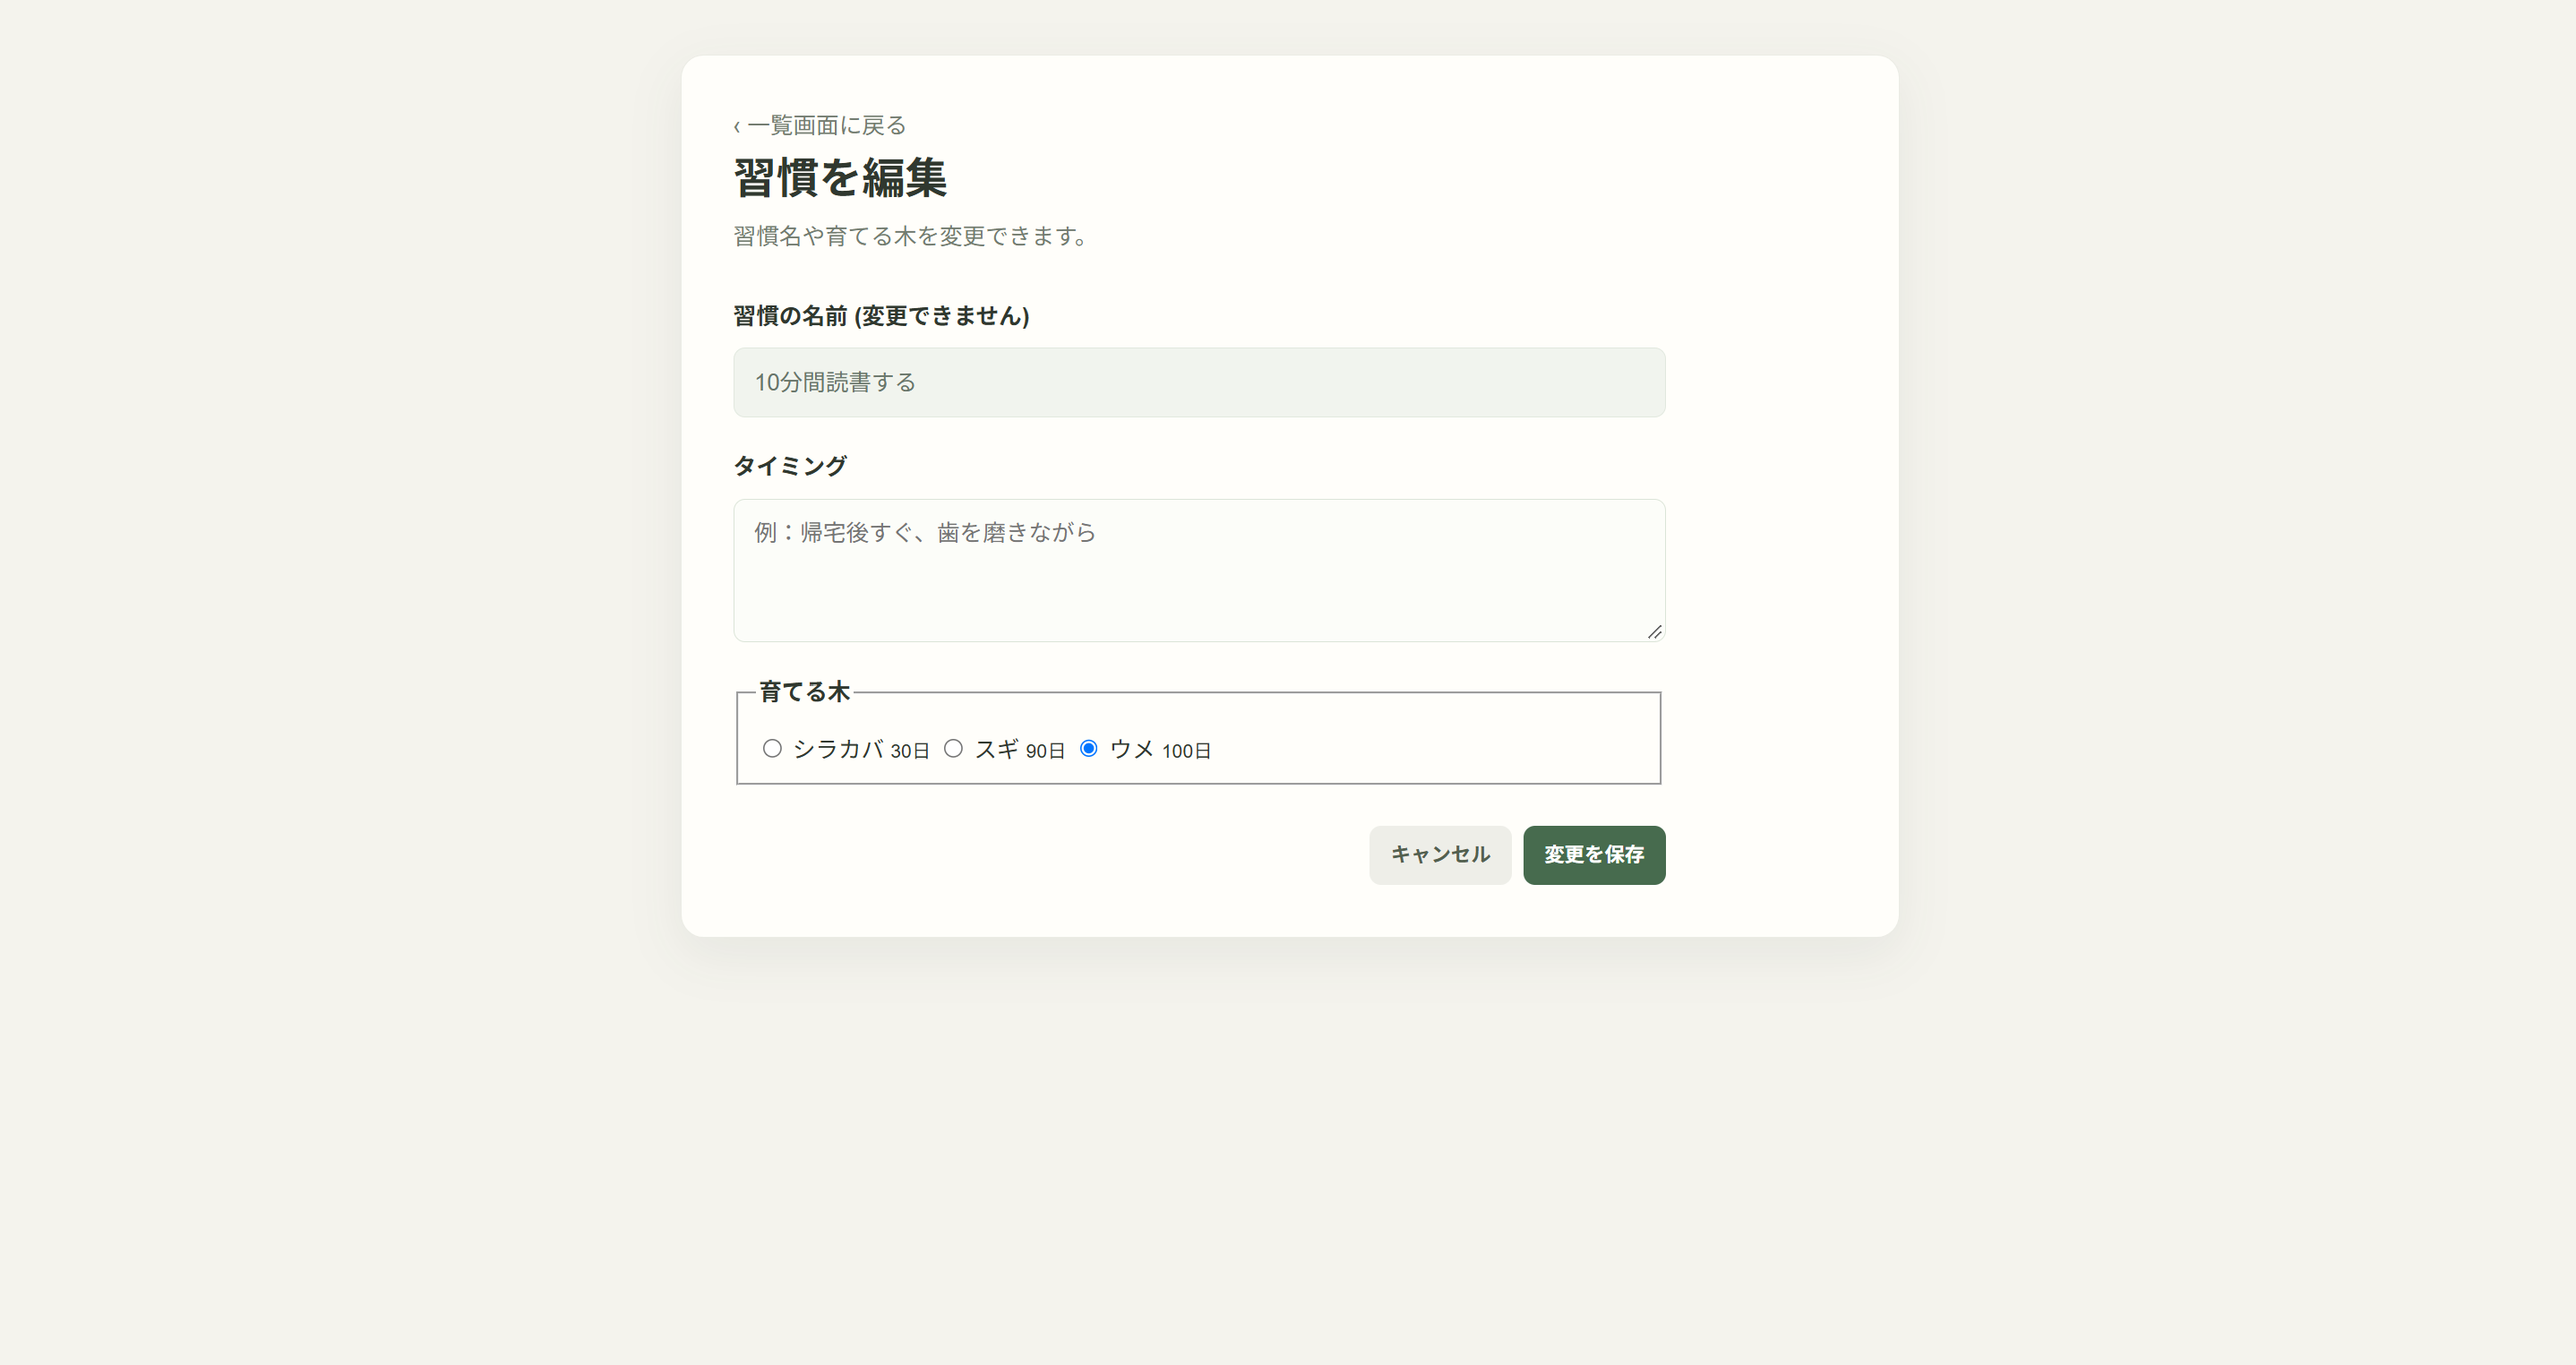
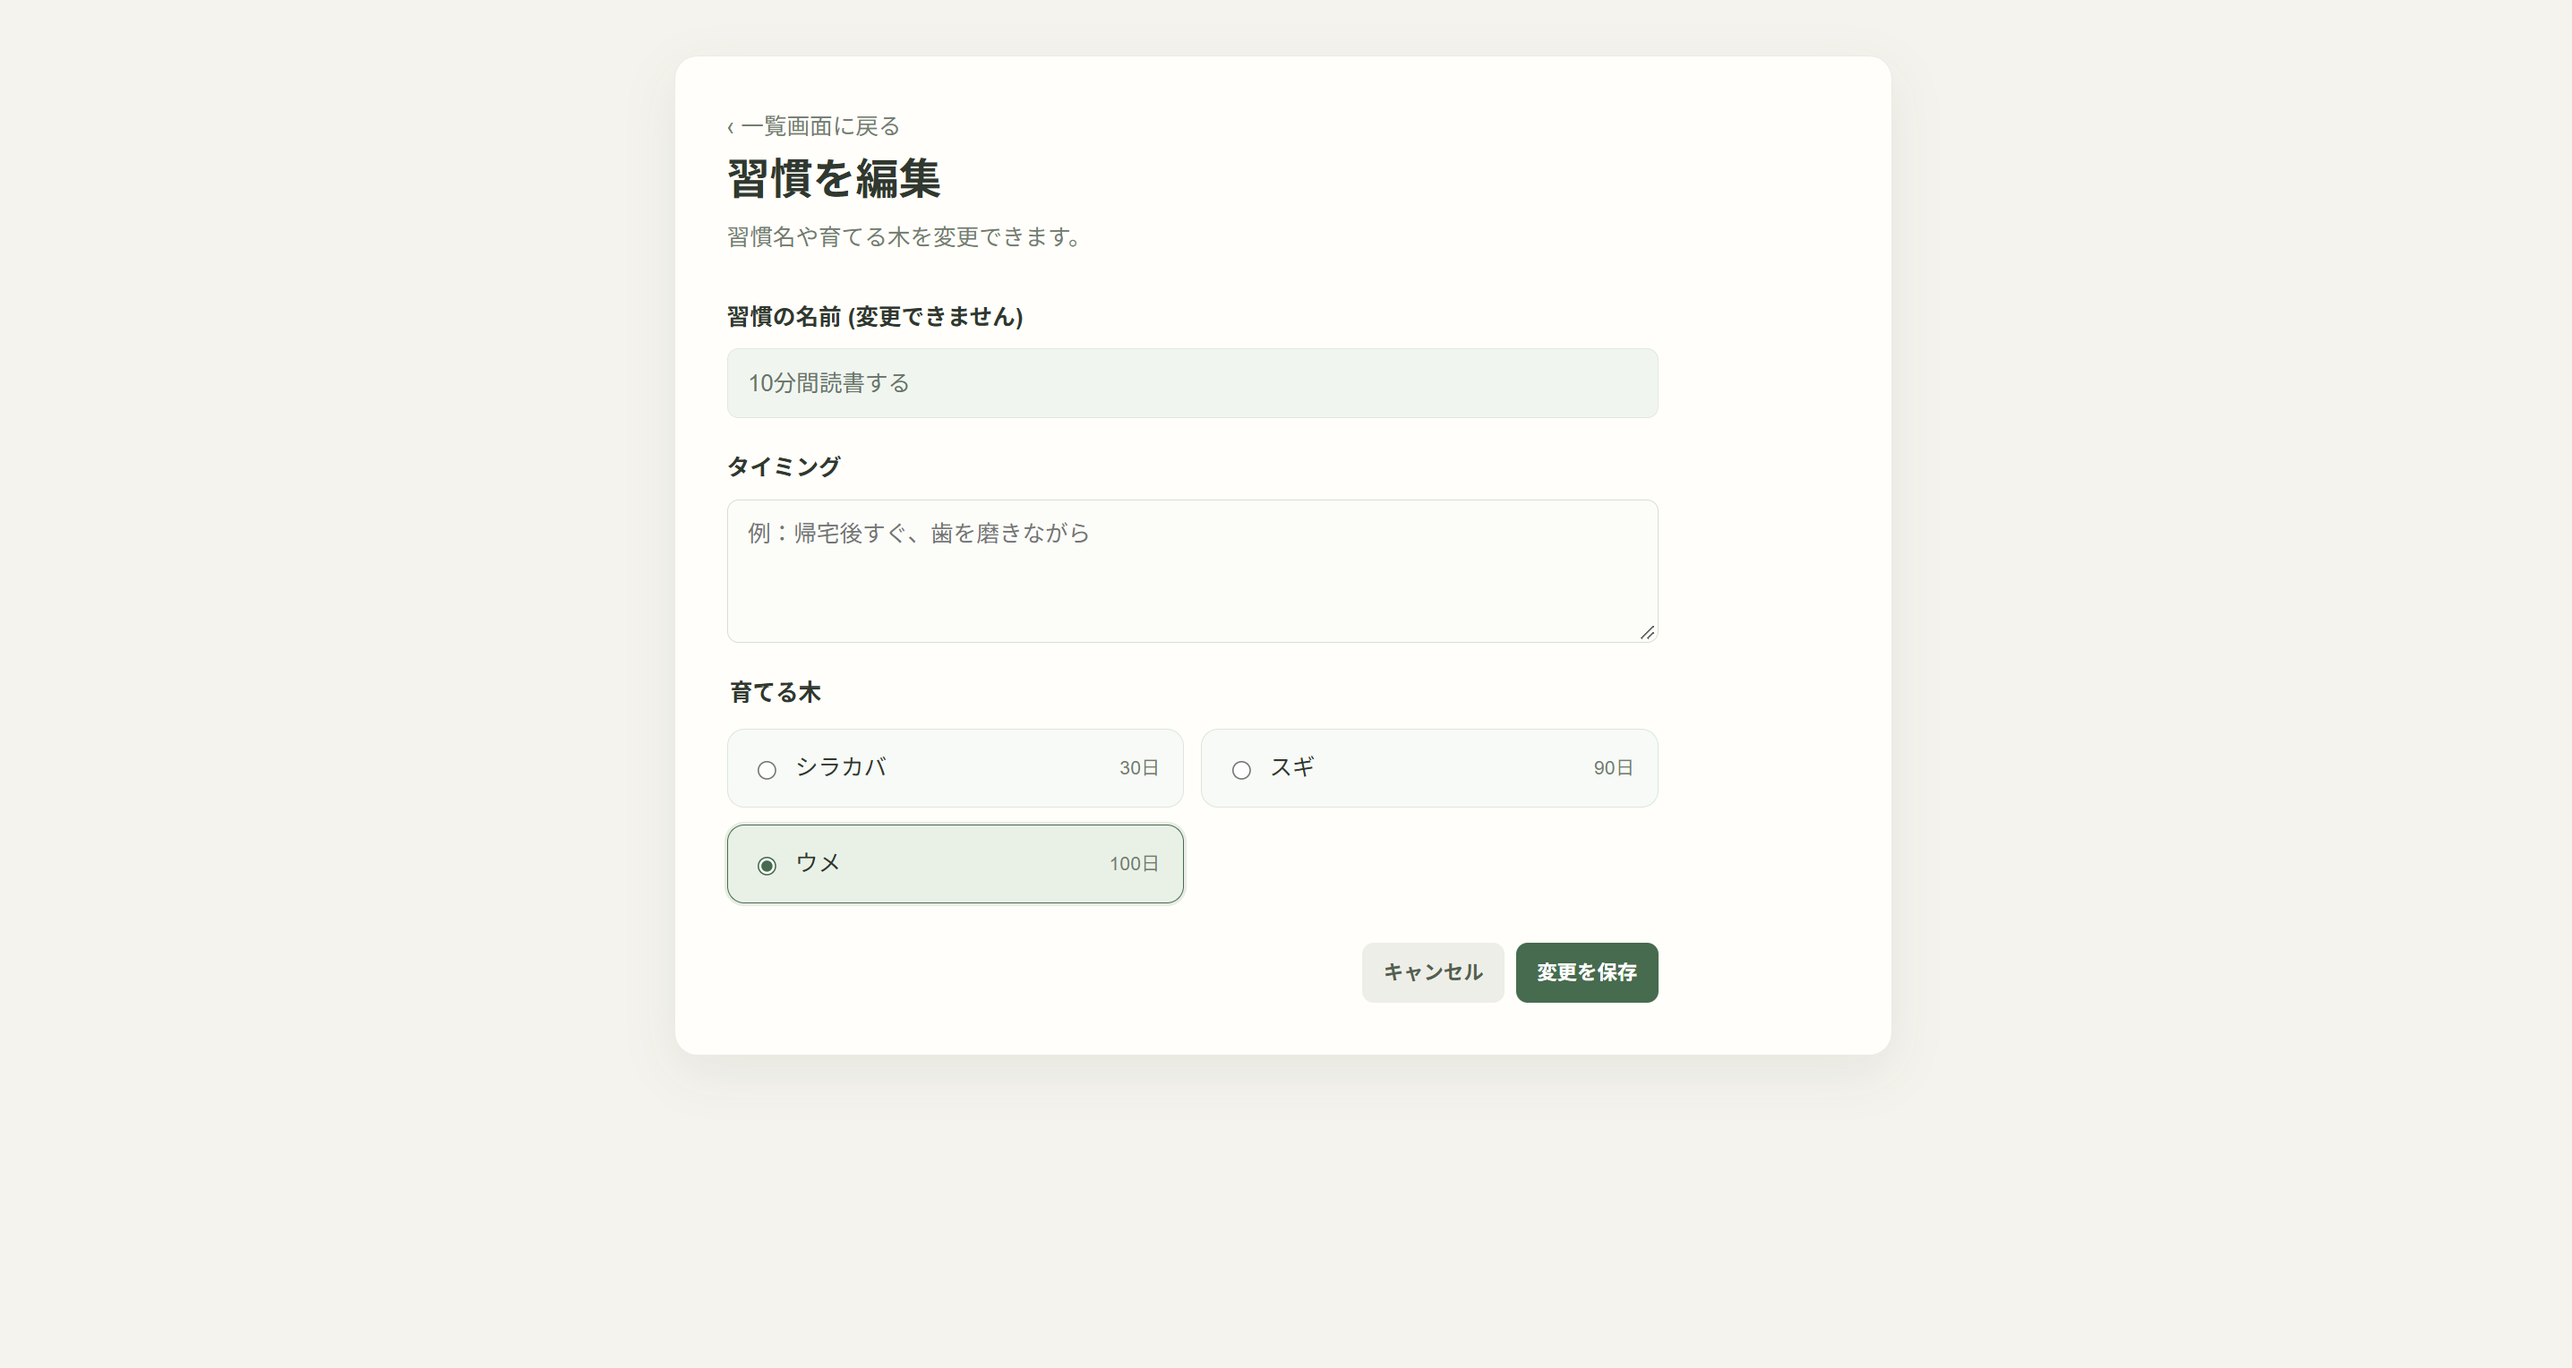
make docs Jsの勉強

diff --git a/HabitTracker/docs/JSのコード解説.md b/HabitTracker/docs/JSのコード解説.md
@@ -1,0 +1,105 @@
+React：webページを部品分けできるライブラリ
+コンポーネント：部品の名称
+Blade：Laravel 側でページの土台と値を用意する
+app.jsx：React を起動し、表示場所を決める
+TreeGrowth.jsx：木の絵を表示する部品（自作）
+props：Blade などから React の部品へ渡す値
+---------------------------------------------------
+app.jsx
+
+import React from 'react';
+//Reactの読み込み
+
+import { createRoot } from 'react-dom/client';
+//HTMLの中にReactを表示するための機能
+
+import TreeGrowth from './TreeGrowth.jsx';
+//自分で作った部品
+
+document.querySelectorAll('[data-tree-growth]').forEach((element) => {
+//'data-tree-growth'この属性のついたHTML要素を探す
+→ 'data-tree-growth'属性を持つHTML要素を全部探す
+
+HTML側に
+<div data-tree-growth data-ring-count="3"></div>
+<div data-tree-growth data-ring-count="8"></div>
+<div data-tree-growth data-ring-count="12"></div>
+こういうのが合ったら1回目は1つ目に、2回目は2つ目に…と表示される。
+
+createRoot(element).render(
+    <TreeGrowth ... />
+);
+//このHTML要素をReactの表示場所にするという意味
+createRoot(element)：`element` という HTML 要素を、React の表示場所にする
+.render()：その場所に表示するものを指定する
+
+ringCount={element.dataset.ringCount}
+targetDays={element.dataset.targetDays}
+//HTMLの値をpropsとして渡す
+---------------------------------------------------
+bladeテンプレートでの書き方（表示場所の用意）
+<div
+    id="tree-growth"
+    data-ring-count="{{ $ringCount }}"
+    data-target-days="{{ $targetDays }}"
+></div>
+
+JSでの受け取り方
+const element = document.getElementById('tree-growth');
+
+createRoot(element).render(//ここに描写される
+    <TreeGrowth
+        ringCount={Number(element.dataset.ringCount)}
+        targetDays={Number(element.dataset.targetDays)}
+    />
+);
+---------------------------------------------------
+
+全体の流れ
+1. propsから変数を受け取る
+2. 数値を整え円の大きさ表示サイズの計算をする
+3. 状態に応じて年輪の色や太さを決める
+4. svgで描写する
+5. 木の中央に達成日を表示する
+
+svg：円、線を使って図形を描く仕組み
+<svg 
+    width={size}：画面上の大きさ
+    height={size}：画面上の大きさ
+    viewBox={`0 0 ${} ${}`}：図を書くための作業スペース※
+    role="img"
+    aria-label={`年輪${}本、目標${}日`}：読み上げソフトなどに伝える説明
+>
+※左上を0,0として横${},縦${}の範囲で図を書く
+<circle //円を書く
+    cx={center}：円の中心
+    cy={center}：円の中心
+    r={outerRadius}：半径
+    fill={grayWholeTree ? '#c8ccc8' : '#f3d2b7'}：塗りつぶしの色
+    stroke="none"：線の色
+/>
+
+関数の書き方
+（exportと書くことで他のファイルから呼び出せる）
+→ export default function 関数名({ ... }) 
+
+
+関数の中身
+→{呼び出し元から値を受け取る}=props
+呼び出し元の値の渡し方
+<呼び出し関数 変数={値}/>
+
+メソッド
+Number()：数値に変換する
+|| 0：数値にできない場合は0
+Math.floor()：小数を切り捨て
+Math.max(0,)：マイナスなら0
+
+return(画面を返す);
+
+Array.form({length: count},...)：count回処理を回す
+---------------------------------------------------
+
+
+
+

diff --git a/HabitTracker/README.md b/HabitTracker/README.md
@@ -198,7 +198,8 @@ HabitTracker/database/seederに実装されています。
 - フロントエンド⇔バックエンド間のデータ受け渡し方法：{{変数名}}で変数をフロントに渡せる。なんとなく知ってたけど実際に実装したのは初めてだった。
 
 ### 今後の改善予定
-- JS,Reactを
+- 年輪の横に木の全体像を付けたい
+（年輪の増加とともに木も成長するとより視覚的に継続具合が分かりやすいと感じたため）
 
 ## 作成者
 [奈良那々美]-初心者エンジニア / 作成期間:2026.11.21~11.27
